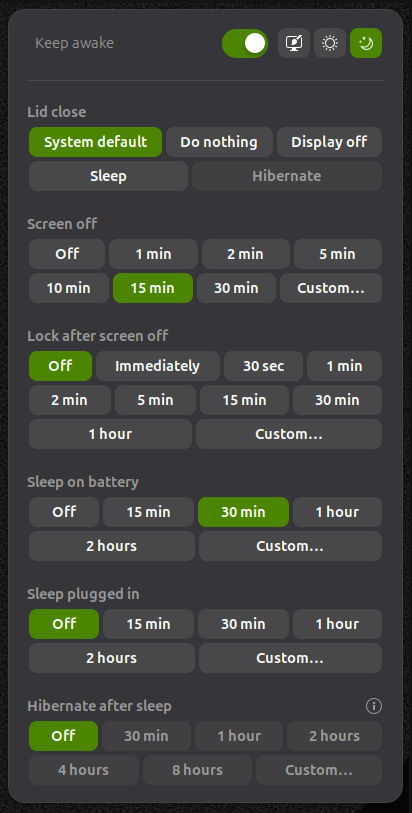
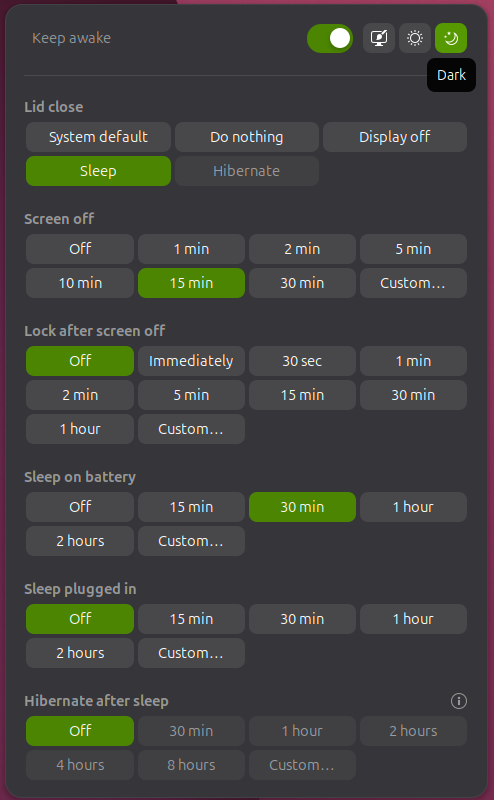
docs: screenshots of the uniform chip grid
Claude-Session: https://claude.ai/code/session_01AxEcQoRfvQ94yoteFjroM8

diff --git a/README.md b/README.md
@@ -3,9 +3,9 @@
 A GNOME Shell extension that puts keep awake, lid close, screen off, lock, sleep and hibernate in one top bar menu. It works with GNOME's own settings where they exist and adds what GNOME Settings does not offer, such as a lid close action and hibernate after sleep.
 
 <p align="center">
-  <img src="preview-dark.png" alt="Sandman popup in dark mode" width="46%">
+  <img src="preview-dark.png" alt="Sandman popup in dark mode, hovering the appearance toggle" width="46%">
   &nbsp;&nbsp;
-  <img src="preview-light.png" alt="Sandman popup in light mode, hovering the appearance toggle" width="46%">
+  <img src="preview-light.png" alt="Sandman popup in light mode" width="46%">
 </p>
 
 ## Controls
